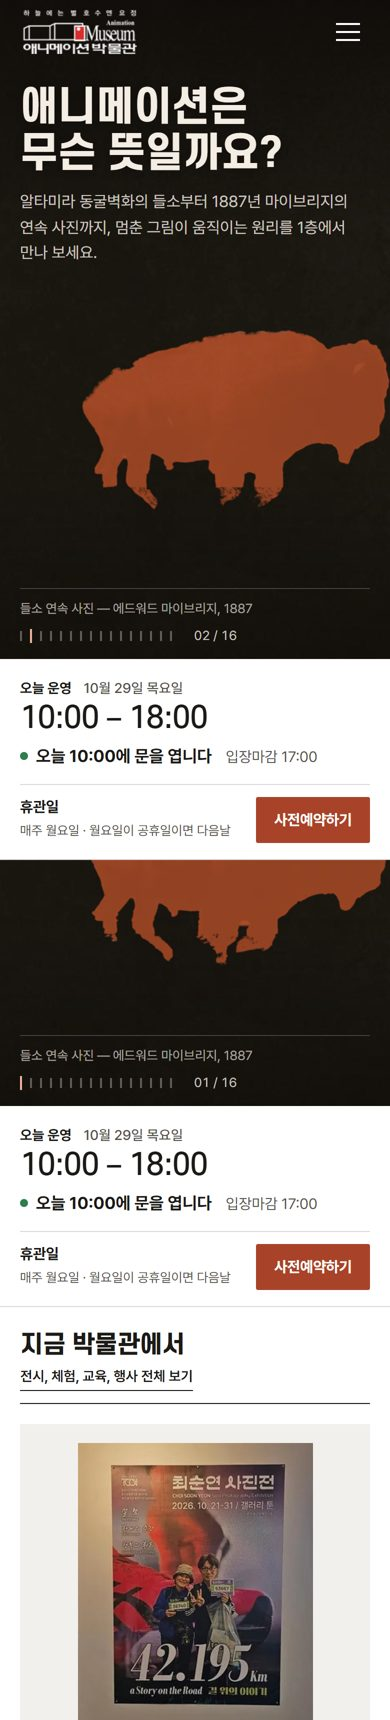
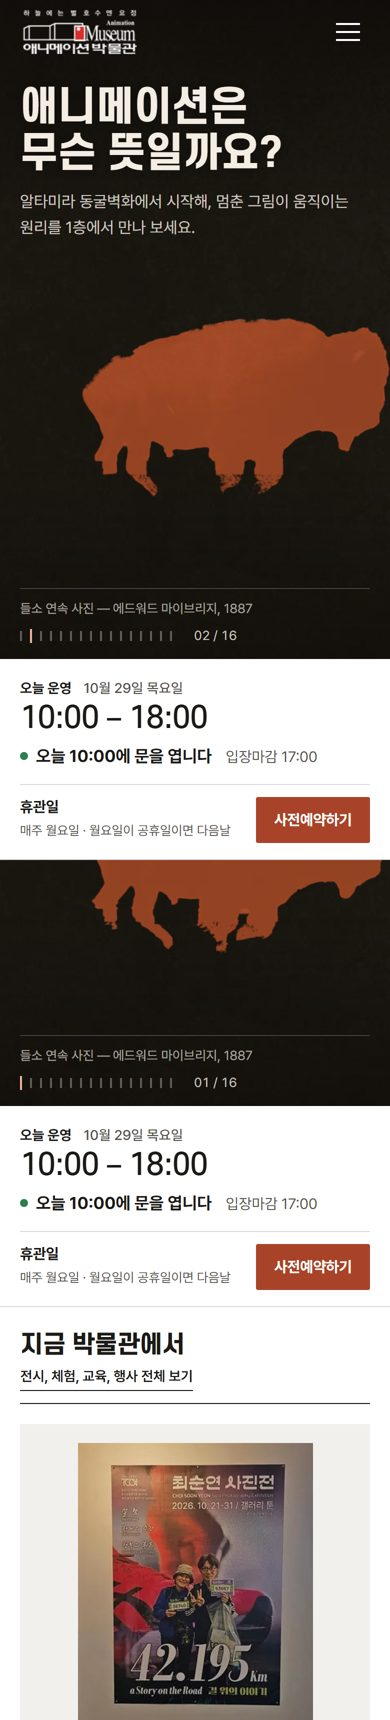
춘천 애니메이션박물관 1안 첫 화면 부제를 누리집 원문 범위로 — 확인되지 않은 '1층 마이브리지 연속 사진' 표현을 빼고 '알타미라 동굴벽화에서 시작해, 멈춘 그림이 움직이는 원리를 1층에서'로

diff --git a/new/1/index.html b/new/1/index.html
@@ -79,7 +79,7 @@
               <span class="q-a">애니메이션은<br>무슨 뜻일까요?</span>
               <span class="q-b">멈춘 그림에<br>숨을 불어넣는 일.</span>
             </h1>
-            <p class="hero-sub">알타미라 동굴벽화의 들소부터 1887년 마이브리지의 연속 사진까지, 멈춘 그림이 움직이는 원리를 1층에서 만나 보세요.</p>
+            <p class="hero-sub">알타미라 동굴벽화에서 시작해, 멈춘 그림이 움직이는 원리를 1층에서 만나 보세요.</p>
           </div>
           <div class="hero-stage" id="stage">
             <div class="bison" id="bison" role="img" aria-label="동굴 벽에 붉은 흙색으로 찍힌 들소. 내리거나 끌면 연속 사진 16장이 넘어가며 달립니다."></div>
